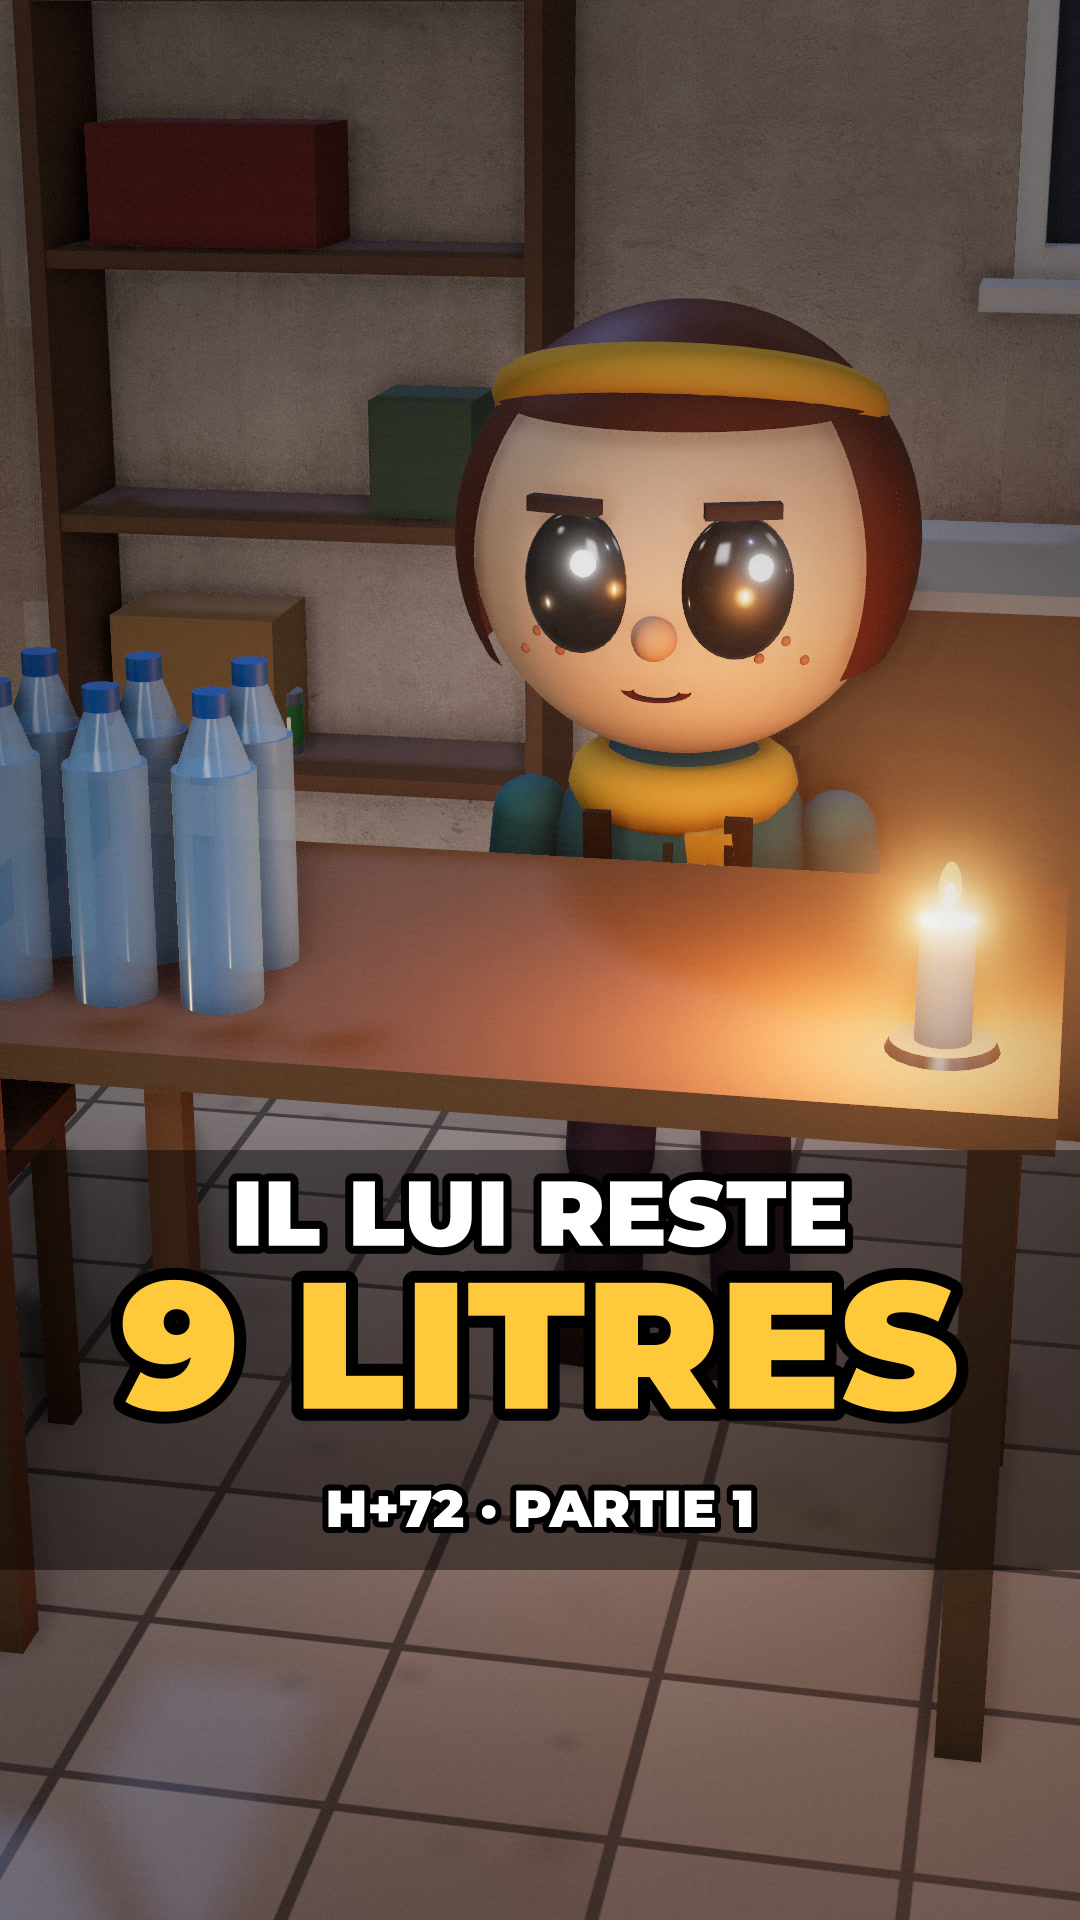
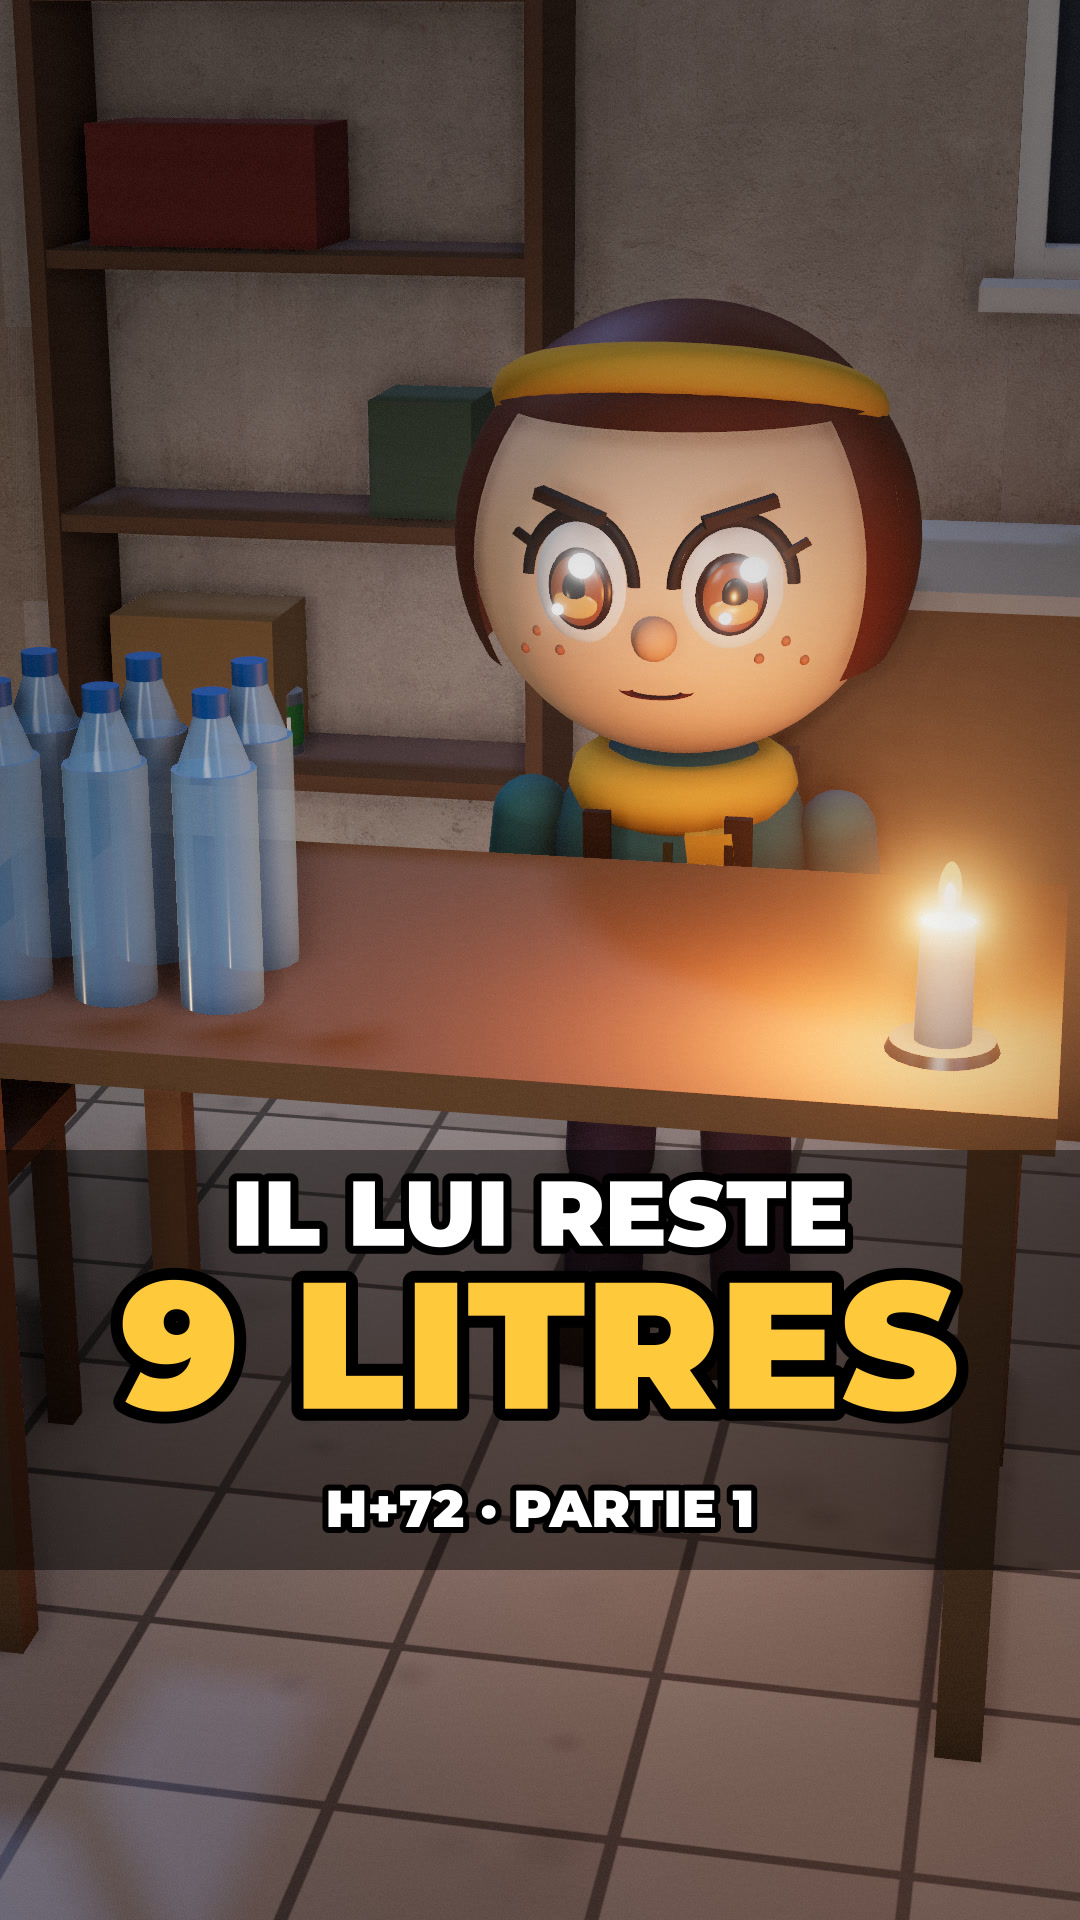
Inès : yeux manga aplatis (trois-quarts), nouvelle couverture
Claude-Session: https://claude.ai/code/session_01YALvzVMEJtkD9uVi4Tii9Z

Changed region(s): [[0.4889, 0.25, 0.7639, 0.3438]]

diff --git a/src/systeme/personnage/Bonhomme.tsx b/src/systeme/personnage/Bonhomme.tsx
@@ -112,7 +112,8 @@ const Carre: React.FC<{ c: Couleurs }> = ({ c }) => {
 // virgule au coin extérieur. `ouverture` écrase l'œil verticalement (clignement, regard fatigué, yeux écarquillés).
 const IRIS = { anneau: "#3a1a08", iris: "#8a4718", clair: "#d08a3a", pupille: "#120703", cils: "#24140e" };
 const OeilManga: React.FC<{ k: number; ouverture: number }> = ({ k, ouverture }) => (
-  <group scale={[1, Math.max(0.06, ouverture), 1]}>
+  // aplati en profondeur (0,72) : vu de trois-quarts, l'œil suit la courbe de la tête au lieu d'en dépasser
+  <group scale={[1, Math.max(0.06, ouverture), 0.72]}>
     <mesh scale={[1, 1.3, 0.5]}>
       <sphereGeometry args={[0.068, 28, 20]} />
       <meshStandardMaterial color="#fbf8f2" roughness={0.35} />
@@ -192,7 +193,7 @@ const Tete: React.FC<{ pose: Pose; c: Couleurs; variante: Variante; visage?: Vis
           <Mat c={c.peau} r={0.7} />
         </mesh>
         {[-1, 1].map((k) => (
-          <group key={k} position={[k * (manga ? 0.09 : 0.095), 0.0, R * (manga ? 0.885 : 0.9)]} rotation={[0, k * 0.28, 0]}>
+          <group key={k} position={[k * (manga ? 0.088 : 0.095), 0.0, R * (manga ? 0.872 : 0.9)]} rotation={[0, k * (manga ? 0.36 : 0.28), 0]}>
             {manga ? (
               <OeilManga k={k} ouverture={v.yeux} />
             ) : (

diff --git a/qc/lecons.md b/qc/lecons.md
@@ -192,7 +192,8 @@ Chaque erreur trouvée (par Claude ou par la personne qui gère la chaîne) ajou
 - **2026-10-24 — RETOUR : yeux d'Inès « tout noirs », visage sans expression.** Règle : l'héroïne a des yeux manga
   (blanc, iris coloré à anneau sombre, pupille, deux reflets, cils, virgule au coin) ; chaque personnage principal a
   des `expressions` calées sur le texte (neutre, sourire, décidé, inquiet, peur, surpris, triste, fatigue, soulagé)
-  et cligne des yeux tout seul ; valider tout visage sur le banc `npx tsx tools/images.ts banc-visages 0.5 1.5`.
+  et cligne des yeux tout seul ; valider tout visage sur le banc `npx tsx tools/images.ts banc-visages 0.5 1.5`
+  (face ET trois-quarts : un œil ne doit jamais dépasser du contour de la tête) puis en gros plan pleine résolution.
 - **2026-10-24 — RETOUR : étagère + bougie collées à la porte d'entrée** (elles encombraient les gros plans du verrou
   et de la porte). Règle : les abords d'une porte qu'on filme restent dégagés (aucun meuble ni objet à moins de 0,6 m
   du chambranle) ; une lumière d'ambiance peut rester, sans objet visible.
